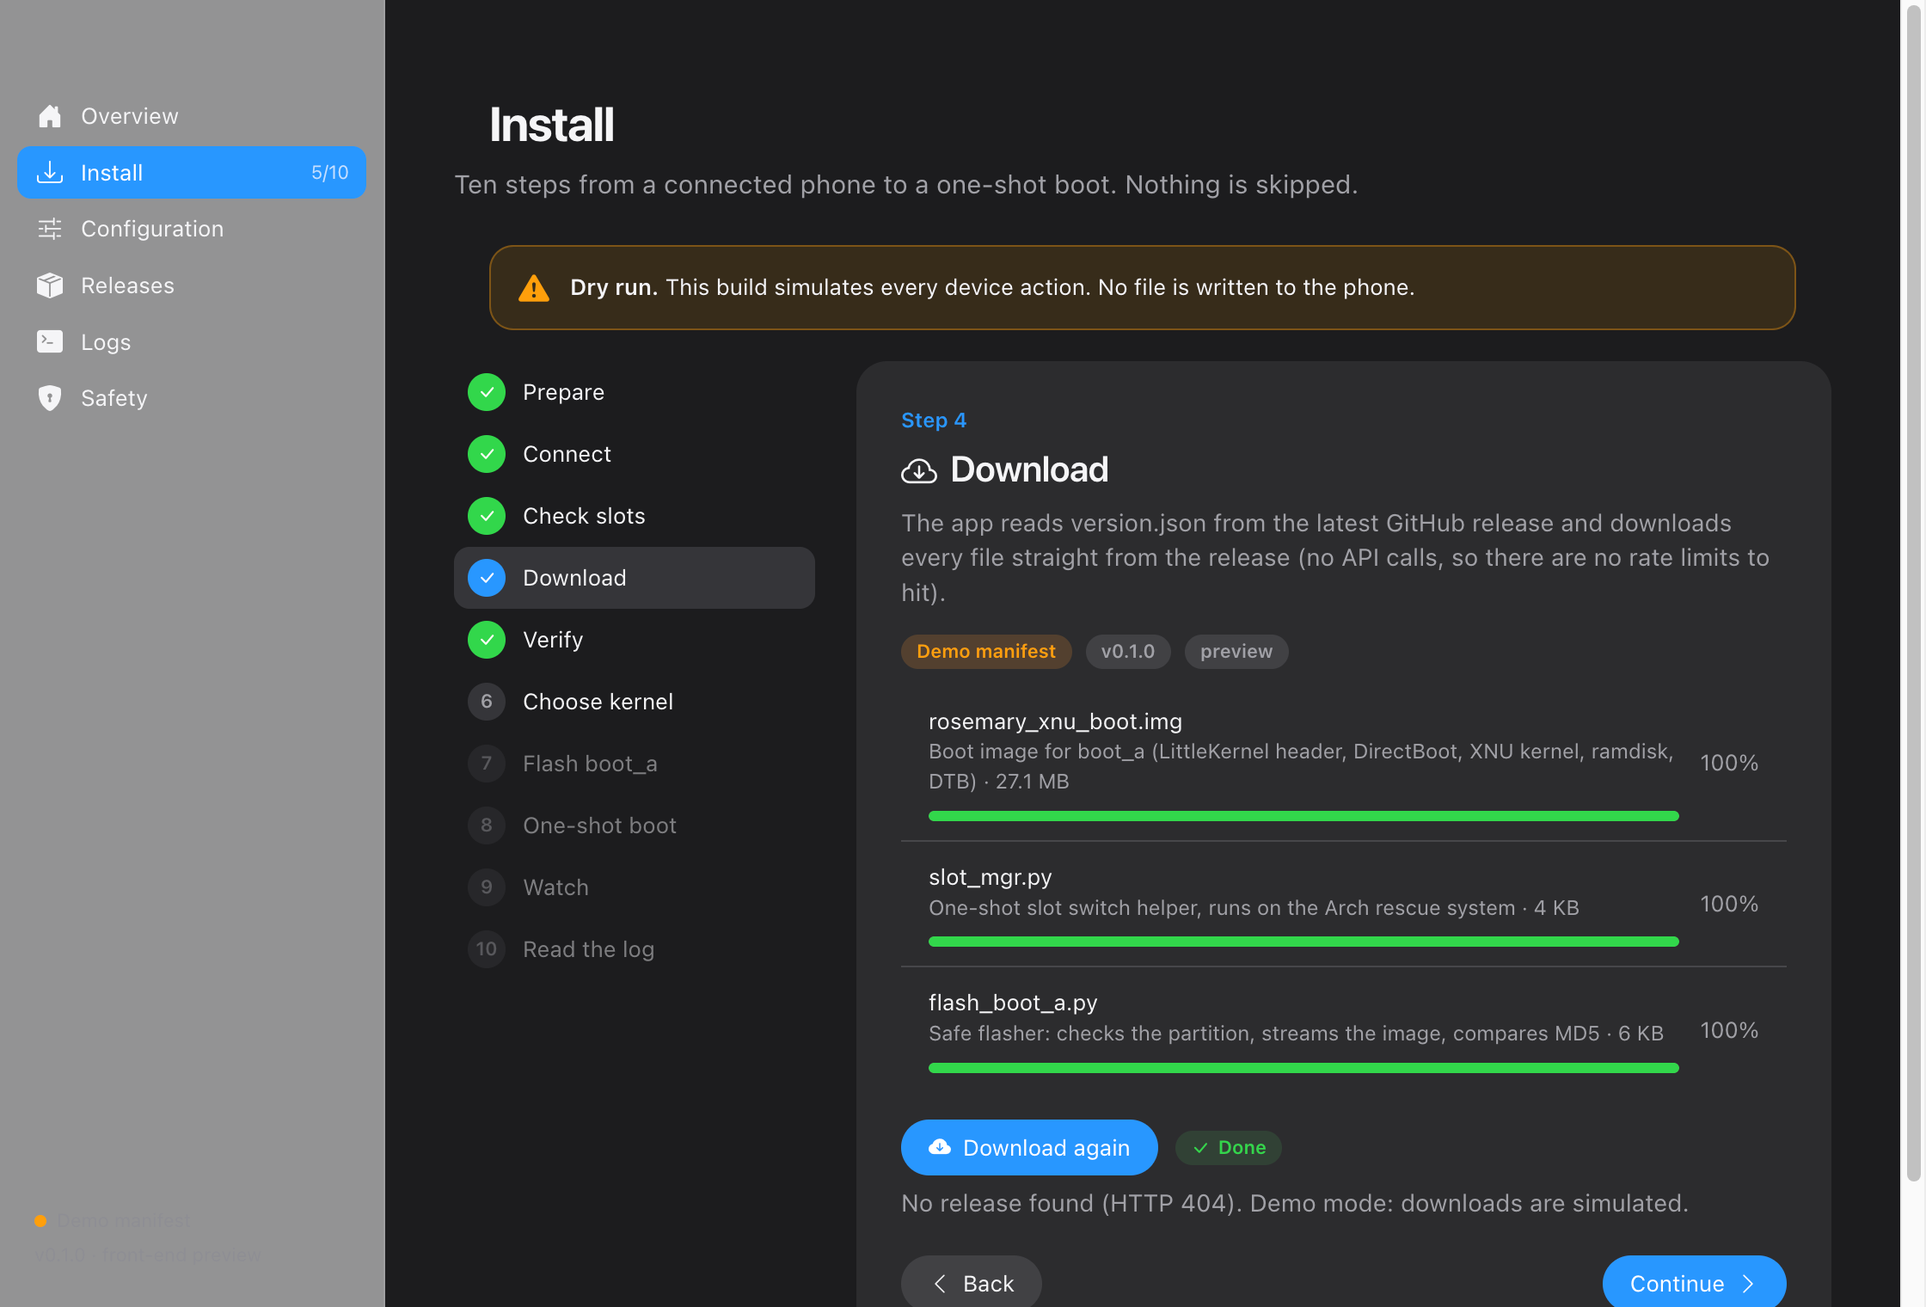
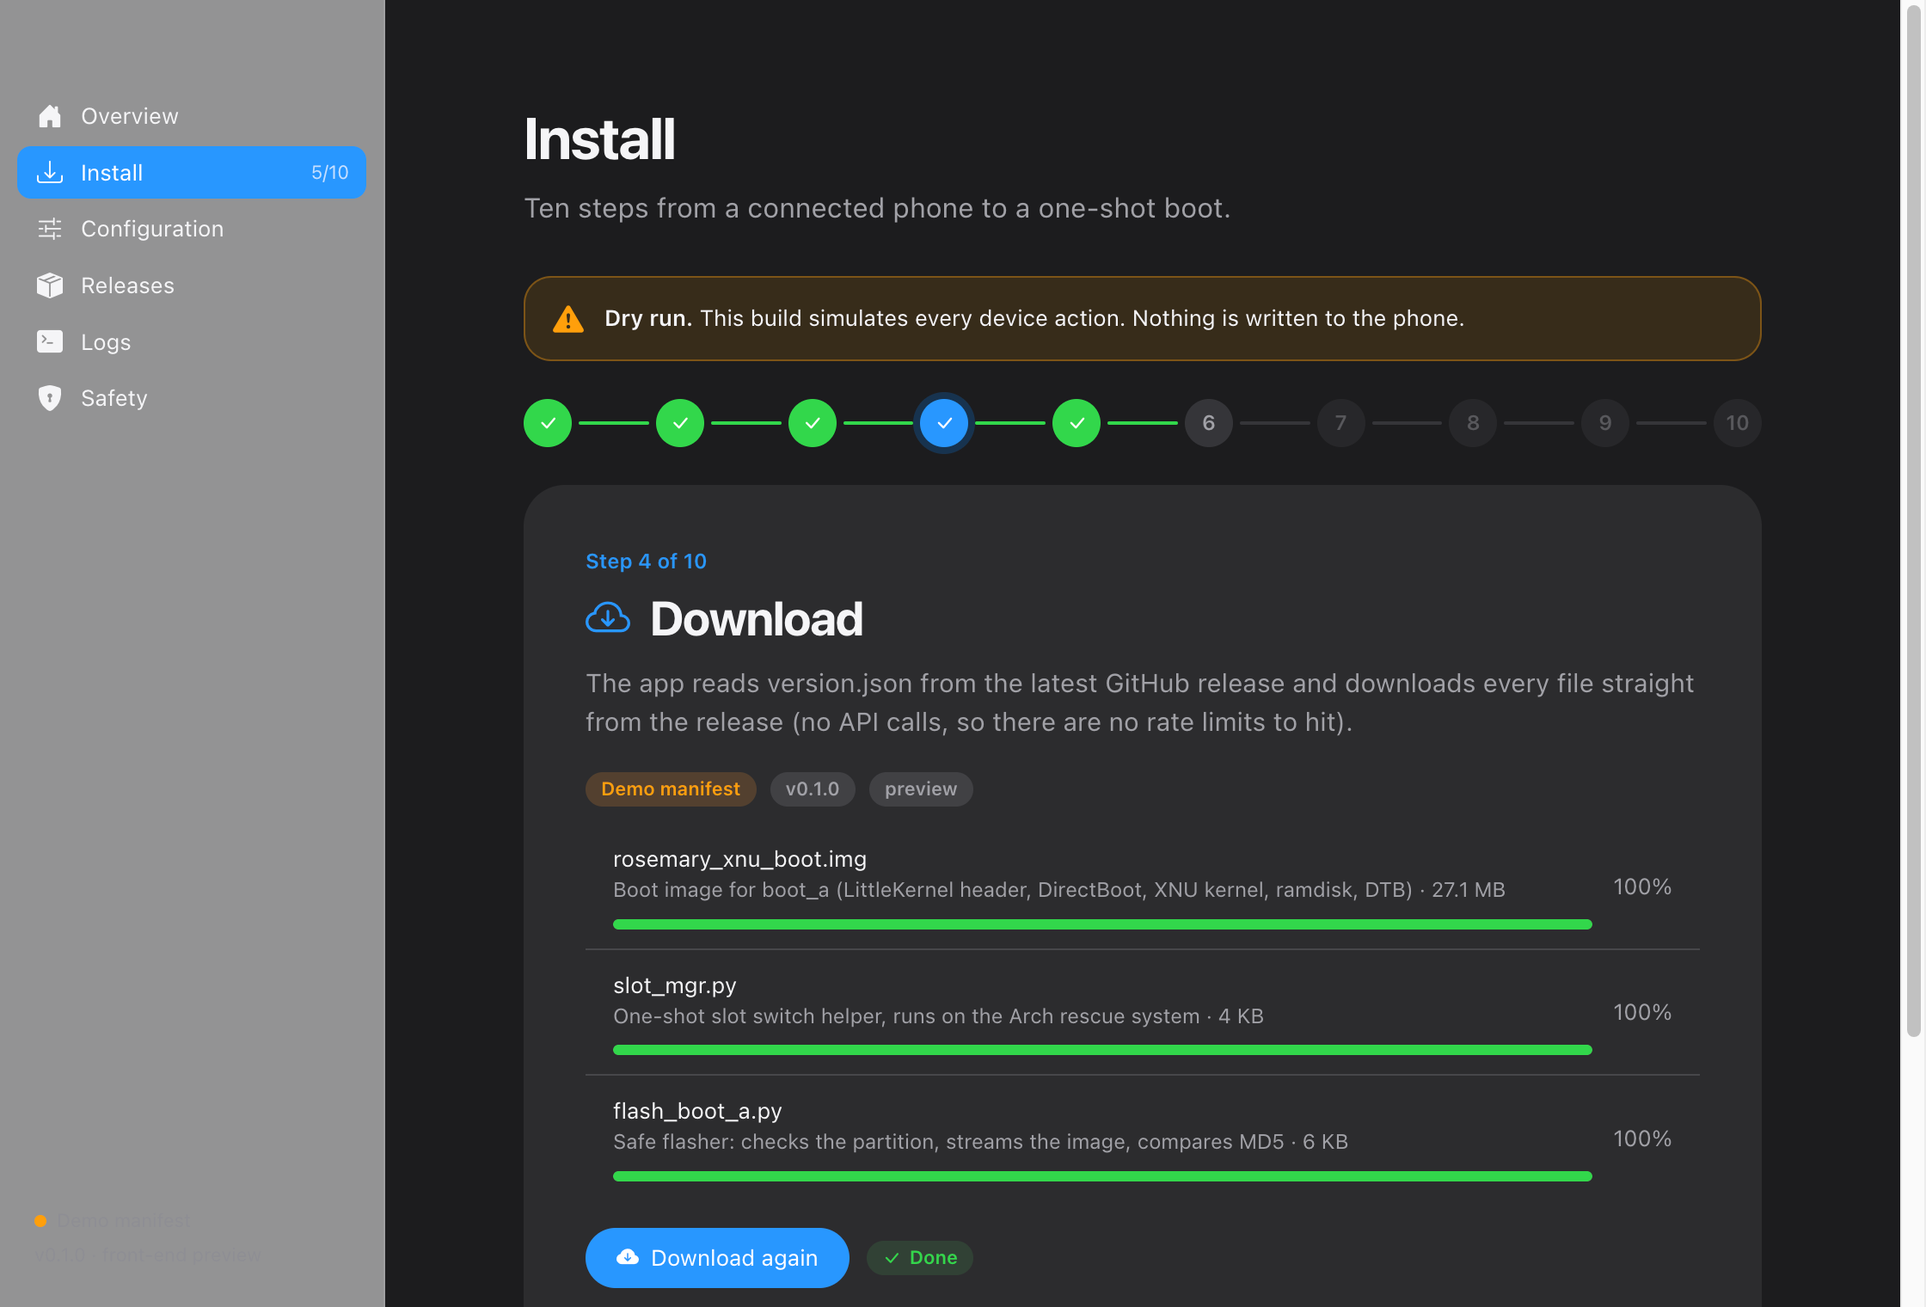
Rework the install screen: stepper, responsive layout, collapsible commands
The wizard no longer widens past the page column; commands wrap and live behind
a "Show command" disclosure instead of dark code blocks; slot map, rows and the
sidebar adapt to narrow windows; larger titles and softer cards.

diff --git a/src/renderer/styles.css b/src/renderer/styles.css
@@ -26,7 +26,7 @@
   --orange: #ff9f0a;
   --red: #ff3b30;
   --shadow: 0 1px 2px rgba(0, 0, 0, 0.04), 0 4px 14px rgba(0, 0, 0, 0.05);
-  --radius: 14px;
+  --radius: 16px;
 }
 
 @media (prefers-color-scheme: dark) {
@@ -97,11 +97,11 @@ body:not(.vibrant) .sidebar { background: var(--surface); }
 /* ---- content ---- */
 .content { position: relative; overflow: hidden; background: var(--bg); }
 .titlebar-drag { position: absolute; inset: 0 0 auto 0; height: 44px; -webkit-app-region: drag; z-index: 2; }
-.view { height: 100vh; overflow-y: auto; padding: 52px 40px 48px; outline: none; }
-.view > * { max-width: 760px; margin-left: auto; margin-right: auto; }
+.view { height: 100vh; overflow-y: auto; padding: 56px clamp(20px, 5vw, 56px) 56px; outline: none; }
+.page { max-width: 720px; margin: 0 auto; min-width: 0; }
 
-h1 { font-family: var(--font-display); font-size: 28px; font-weight: 700; letter-spacing: -0.02em; margin: 0 0 4px; }
-.lede { color: var(--text-2); font-size: 15px; margin: 0 0 24px; }
+h1 { font-family: var(--font-display); font-size: 34px; font-weight: 700; letter-spacing: -0.02em; margin: 0 0 4px; }
+.lede { color: var(--text-2); font-size: 16px; margin: 0 0 28px; max-width: 56ch; }
 h2 { font-family: var(--font-display); font-size: 17px; font-weight: 600; margin: 28px 0 10px; letter-spacing: -0.01em; }
 .section-label { font-size: 11px; font-weight: 600; text-transform: uppercase; letter-spacing: 0.04em; color: var(--text-3); margin: 24px 4px 8px; }
 .footnote { color: var(--text-3); font-size: 12px; margin: 8px 4px 0; }
@@ -112,21 +112,23 @@ h2 { font-family: var(--font-display); font-size: 17px; font-weight: 600; margin
 .row + .row { border-top: 1px solid var(--line); }
 .row .title { font-weight: 500; }
 .row .sub { color: var(--text-2); font-size: 12px; }
-.row .grow { flex: 1; min-width: 0; }
-.row .value { color: var(--text-2); text-align: right; }
+.row .grow { flex: 1; min-width: 0; overflow-wrap: anywhere; }
+.row .value { color: var(--text-2); text-align: right; max-width: 50%; overflow-wrap: anywhere; }
+.row .badge, .row .btn { flex: none; }
 .icon-tile { width: 30px; height: 30px; border-radius: 8px; display: inline-grid; place-items: center; color: #fff; font-size: 16px; flex: none; }
 .t-blue { background: #0a84ff; } .t-green { background: #30b350; } .t-orange { background: #ff9f0a; }
 .t-red { background: #ff453a; } .t-gray { background: #8e8e93; } .t-purple { background: #af52de; } .t-teal { background: #30b0c7; }
 
 /* ---- hero ---- */
-.hero { display: flex; align-items: center; gap: 22px; padding: 26px; border-radius: 20px; background: var(--surface); box-shadow: var(--shadow); }
+.hero { display: flex; align-items: center; gap: 24px; padding: 28px; border-radius: 24px; flex-wrap: wrap; background: var(--surface); box-shadow: var(--shadow); }
 .hero-icon { width: 92px; height: 92px; border-radius: 22px; background: linear-gradient(145deg, #5ac8fa, #0a84ff 55%, #5e5ce6); display: grid; place-items: center; color: #fff; font-size: 46px; flex: none; box-shadow: 0 8px 20px rgba(10, 132, 255, 0.35); }
-.hero h1 { font-size: 30px; }
+.hero h1 { font-size: 38px; }
+.hero > div:last-child { flex: 1 1 280px; min-width: 0; }
 .hero p { margin: 4px 0 14px; color: var(--text-2); font-size: 14px; }
 .hero-actions { display: flex; gap: 10px; flex-wrap: wrap; }
 
 /* ---- controls ---- */
-.btn { border: 0; border-radius: 980px; padding: 7px 16px; font-weight: 500; background: var(--blue); color: #fff; cursor: default; display: inline-flex; align-items: center; gap: 7px; }
+.btn { border: 0; border-radius: 980px; padding: 8px 18px; font-weight: 500; background: var(--blue); color: #fff; cursor: default; display: inline-flex; align-items: center; gap: 7px; }
 .btn:hover { background: var(--blue-press); }
 .btn:disabled { opacity: 0.4; pointer-events: none; }
 .btn.secondary { background: var(--fill); color: var(--text); }
@@ -149,7 +151,7 @@ h2 { font-family: var(--font-display); font-size: 17px; font-weight: 600; margin
 .segmented button.on { background: var(--surface); box-shadow: 0 1px 3px rgba(0, 0, 0, 0.18); }
 @media (prefers-color-scheme: dark) { .segmented button.on { background: var(--surface-2); } }
 
-input[type="range"] { accent-color: var(--blue); width: 200px; }
+input[type="range"] { accent-color: var(--blue); width: min(200px, 30vw); }
 .field { background: var(--fill); border: 0; border-radius: 8px; padding: 6px 10px; color: var(--text); font: inherit; -webkit-user-select: text; user-select: text; }
 
 .badge { display: inline-flex; align-items: center; gap: 5px; padding: 2px 9px; border-radius: 980px; font-size: 11px; font-weight: 600; background: var(--fill); color: var(--text-2); }
@@ -169,28 +171,30 @@ input[type="range"] { accent-color: var(--blue); width: 200px; }
 .callout .bi { font-size: 18px; margin-top: 1px; }
 .callout.red .bi { color: var(--red); } .callout .bi { color: var(--orange); } .callout.blue .bi { color: var(--blue); }
 
-.cmd { display: flex; align-items: center; gap: 8px; background: var(--surface-2); border-radius: 9px; padding: 8px 10px 8px 12px; margin-top: 8px; -webkit-user-select: text; user-select: text; }
-@media (prefers-color-scheme: dark) { .cmd { background: #1c1c1e; } }
-.cmd code { flex: 1; overflow-x: auto; white-space: pre; }
-.cmd button { border: 0; background: transparent; color: var(--text-3); cursor: default; padding: 2px 4px; border-radius: 5px; }
-.cmd button:hover { color: var(--text); background: var(--fill); }
+.cmd { display: flex; align-items: flex-start; gap: 8px; background: var(--fill); border-radius: 12px; padding: 10px 10px 10px 14px; margin-top: 8px; -webkit-user-select: text; user-select: text; min-width: 0; }
+.cmd code { flex: 1; min-width: 0; white-space: pre-wrap; overflow-wrap: anywhere; color: var(--text-2); line-height: 1.5; }
+.cmd button { border: 0; background: transparent; color: var(--text-3); cursor: default; padding: 3px 5px; border-radius: 6px; flex: none; }
+.cmd button:hover { color: var(--text); background: var(--line); }
+.disclose { margin-top: 14px; }
+.disclose summary { list-style: none; display: inline-flex; align-items: center; gap: 6px; color: var(--blue); cursor: default; font-weight: 500; }
+.disclose summary::-webkit-details-marker { display: none; }
+.disclose summary .bi { font-size: 11px; transition: transform .15s; }
+.disclose[open] summary .bi { transform: rotate(90deg); }
 
 /* ---- install wizard ---- */
-.wizard { display: grid; grid-template-columns: 210px 1fr; gap: 24px; max-width: 920px !important; }
-.steps { list-style: none; margin: 0; padding: 0; position: sticky; top: 0; align-self: start; }
-.steps li { display: flex; gap: 10px; align-items: flex-start; padding: 7px 8px; border-radius: 9px; cursor: default; }
-.steps li:hover { background: var(--fill); }
-.steps li.current { background: var(--fill); }
-.step-dot { width: 22px; height: 22px; border-radius: 50%; display: grid; place-items: center; font-size: 11px; font-weight: 600; background: var(--fill); color: var(--text-2); flex: none; }
-.steps li.done .step-dot { background: var(--green); color: #fff; }
-.steps li.current .step-dot { background: var(--blue); color: #fff; }
-.steps li .name { font-weight: 500; line-height: 22px; }
-.steps li.locked { opacity: 0.45; }
-.step-card { background: var(--surface); border-radius: 18px; box-shadow: var(--shadow); padding: 26px; }
-.step-card h2 { margin: 0 0 4px; font-size: 21px; }
+.stepper { display: flex; align-items: center; margin: 4px 0 22px; }
+.sdot { width: 28px; height: 28px; border-radius: 50%; border: 0; flex: none; display: grid; place-items: center; font-size: 12px; font-weight: 600; background: var(--fill); color: var(--text-2); cursor: default; padding: 0; }
+.sdot:disabled { opacity: 0.45; }
+.sdot.done { background: var(--green); color: #fff; }
+.sdot.current { background: var(--blue); color: #fff; box-shadow: 0 0 0 4px rgba(10, 132, 255, 0.22); }
+.sline { flex: 1; height: 2px; min-width: 4px; background: var(--fill); margin: 0 4px; border-radius: 1px; }
+.sline.done { background: var(--green); }
+.step-card { background: var(--surface); border-radius: 24px; box-shadow: var(--shadow); padding: clamp(22px, 4vw, 36px); min-width: 0; }
+.step-card h2 { margin: 0 0 6px; font-size: 28px; font-weight: 700; letter-spacing: -0.02em; display: flex; align-items: center; gap: 12px; }
+.step-card h2 .bi { color: var(--blue); font-size: 26px; }
 .step-card .kicker { color: var(--blue); font-weight: 600; font-size: 12px; margin-bottom: 4px; }
-.step-card p { color: var(--text-2); margin: 6px 0 14px; font-size: 14px; }
-.step-actions { display: flex; gap: 10px; margin-top: 20px; align-items: center; }
+.step-card p { color: var(--text-2); margin: 6px 0 18px; font-size: 15px; line-height: 1.5; }
+.step-actions { display: flex; gap: 10px; margin-top: 28px; align-items: center; padding-top: 20px; border-top: 1px solid var(--line); }
 .step-actions .spacer { flex: 1; }
 .checklist { list-style: none; padding: 0; margin: 10px 0 0; }
 .checklist li { display: flex; gap: 10px; padding: 8px 0; align-items: flex-start; }
@@ -203,7 +207,8 @@ input[type="range"] { accent-color: var(--blue); width: 200px; }
 .timeline .t { color: var(--text-3); font-variant-numeric: tabular-nums; font-weight: 600; }
 
 /* ---- tables & logs ---- */
-.table { width: 100%; border-collapse: collapse; }
+.scroll-x { overflow-x: auto; }
+.table { width: 100%; border-collapse: collapse; min-width: 480px; }
 .table th { text-align: left; font-size: 11px; color: var(--text-3); font-weight: 600; text-transform: uppercase; letter-spacing: 0.03em; padding: 9px 16px; }
 .table td { padding: 10px 16px; border-top: 1px solid var(--line); vertical-align: middle; }
 .hash { font-family: var(--font-mono); font-size: 11px; color: var(--text-2); word-break: break-all; -webkit-user-select: text; user-select: text; }
@@ -213,7 +218,7 @@ input[type="range"] { accent-color: var(--blue); width: 200px; }
 pre.json { background: var(--surface); border-radius: var(--radius); padding: 16px; overflow: auto; font-family: var(--font-mono); font-size: 12px; max-height: 60vh; -webkit-user-select: text; user-select: text; margin: 0; }
 
 /* ---- slot map ---- */
-.slotmap { display: grid; grid-template-columns: repeat(3, 1fr); gap: 12px; }
+.slotmap { display: grid; grid-template-columns: repeat(auto-fit, minmax(190px, 1fr)); gap: 12px; }
 .slot { background: var(--surface); border-radius: var(--radius); padding: 16px; box-shadow: var(--shadow); border: 1.5px solid transparent; }
 .slot.target { border-color: var(--blue); }
 .slot.locked { border-color: rgba(255, 59, 48, 0.4); }
@@ -225,8 +230,10 @@ pre.json { background: var(--surface); border-radius: var(--radius); padding: 16
 .toast { background: rgba(40, 40, 42, 0.92); color: #fff; padding: 9px 16px; border-radius: 980px; font-size: 12px; font-weight: 500; backdrop-filter: blur(20px); animation: toast-in .2s ease-out; }
 @keyframes toast-in { from { opacity: 0; transform: translateY(8px); } to { opacity: 1; transform: none; } }
 
-@media (max-width: 1000px) {
-  .wizard { grid-template-columns: 1fr; }
-  .steps { position: static; display: flex; overflow-x: auto; gap: 4px; }
-  .slotmap { grid-template-columns: 1fr; }
+@media (max-width: 760px) {
+  .app { grid-template-columns: 64px 1fr; }
+  .nav-item span, .nav-group, .sidebar-foot { display: none; }
+  .nav-item { justify-content: center; padding: 9px; }
+  .row { flex-wrap: wrap; }
+  .row .value { max-width: 100%; text-align: left; }
 }

diff --git a/src/renderer/app.js b/src/renderer/app.js
@@ -167,33 +167,31 @@
     const s = D.steps[state.step];
     return `
       <h1>Install</h1>
-      <p class="lede">Ten steps from a connected phone to a one-shot boot. Nothing is skipped.</p>
-      <div class="callout" style="margin-bottom:18px">${icon('bi-exclamation-triangle-fill')}<div><b>Dry run.</b> This build simulates every device action. No file is written to the phone.</div></div>
-      <div class="wizard">
-        <ol class="steps">
-          ${D.steps.map((st, i) => `
-            <li class="${i === state.step ? 'current' : ''} ${state.done.has(i) ? 'done' : ''} ${stepUnlocked(i) ? '' : 'locked'}" data-action="step" data-i="${i}">
-              <span class="step-dot">${state.done.has(i) ? icon('bi-check-lg') : i + 1}</span>
-              <span class="name">${st.title}</span>
-            </li>`).join('')}
-        </ol>
-        <div class="step-card">
-          <div class="kicker">${esc(s.kicker)}</div>
-          <h2>${icon(s.icon)}&nbsp; ${esc(s.title)}</h2>
-          <p>${esc(s.text)}</p>
-          ${stepBody(s)}
-          <div class="step-actions">
-            <button class="btn secondary" data-action="prev" ${state.step === 0 ? 'disabled' : ''}>${icon('bi-chevron-left')} Back</button>
-            <span class="spacer"></span>
-            ${state.step === D.steps.length - 1
-              ? `<button class="btn" data-action="finish" ${state.done.has(state.step) ? '' : 'disabled'}>${icon('bi-check2-circle')} Finish</button>`
-              : `<button class="btn" data-action="next" ${state.done.has(state.step) ? '' : 'disabled'}>Continue ${icon('bi-chevron-right')}</button>`}
-          </div>
+      <p class="lede">Ten steps from a connected phone to a one-shot boot.</p>
+      <div class="callout" style="margin-bottom:22px">${icon('bi-exclamation-triangle-fill')}<div><b>Dry run.</b> This build simulates every device action. Nothing is written to the phone.</div></div>
+      <div class="stepper" role="list">
+        ${D.steps.map((st, i) => `
+          <button class="sdot ${i === state.step ? 'current' : ''} ${state.done.has(i) ? 'done' : ''}" role="listitem" data-action="step" data-i="${i}" title="${esc(st.title)}" ${stepUnlocked(i) ? '' : 'disabled'}>${state.done.has(i) ? icon('bi-check-lg') : i + 1}</button>
+          ${i < D.steps.length - 1 ? `<span class="sline ${state.done.has(i) ? 'done' : ''}"></span>` : ''}`).join('')}
+      </div>
+      <div class="step-card">
+        <div class="kicker">Step ${state.step + 1} of ${D.steps.length}</div>
+        <h2>${icon(s.icon)}<span>${esc(s.title)}</span></h2>
+        <p>${esc(s.text)}</p>
+        ${stepBody(s)}
+        <div class="step-actions">
+          <button class="btn secondary" data-action="prev" ${state.step === 0 ? 'disabled' : ''}>${icon('bi-chevron-left')} Back</button>
+          <span class="spacer"></span>
+          ${state.step === D.steps.length - 1
+            ? `<button class="btn" data-action="finish" ${state.done.has(state.step) ? '' : 'disabled'}>${icon('bi-check2-circle')} Finish</button>`
+            : `<button class="btn" data-action="next" ${state.done.has(state.step) ? '' : 'disabled'}>Continue ${icon('bi-chevron-right')}</button>`}
         </div>
-      </div>`;
+      </div>
+    </div>`;
   }
 
-  const cmdBox = (c) => `<div class="cmd"><code>${esc(c)}</code><button data-action="copy" data-text="${esc(c)}" title="Copy">${icon('bi-clipboard')}</button></div>`;
+  const cmdLine = (c) => `<div class="cmd"><code>${esc(c)}</code><button data-action="copy" data-text="${esc(c)}" title="Copy">${icon('bi-clipboard')}</button></div>`;
+  const cmdBox = (c) => `<details class="disclose"><summary>${icon('bi-chevron-right')}<span>Show command</span></summary>${cmdLine(c)}</details>`;
 
   function stepBody(s) {
     switch (s.id) {
@@ -277,7 +275,7 @@
         <div class="grow"><div class="title">${p.title}</div><div class="sub">${p.subtitle}</div></div>
         ${state.profile === p.id ? `<span class="badge blue">${icon('bi-check-lg')} Selected</span>` : ''}
       </div>`).join('')}</div>
-      <div class="section-label">Boot arguments</div>${cmdBox(cmdline())}
+      <div class="section-label">Boot arguments</div>${cmdLine(cmdline())}
       <p class="footnote">Fine-tune them in Configuration. The same boot image is flashed either way.</p>`;
   }
 
@@ -332,7 +330,7 @@
         <div class="row"><div class="grow"><div class="title mono">${a.key}=${a.value}</div><div class="sub">${esc(a.desc)}${a.locked ? ' · required' : ''}</div></div>
           <label class="toggle"><input type="checkbox" data-action="arg" data-key="${a.key}" ${(a.locked || state.args[a.key]) ? 'checked' : ''} ${a.locked ? 'disabled' : ''}><span></span></label></div>`).join('')}</div>
       <div class="section-label">Resulting command line</div>
-      ${cmdBox(cmdline())}
+      ${cmdLine(cmdline())}
       <p class="footnote">The command line is compiled into DirectBoot today. The final flasher will rebuild the image from these choices.</p>`;
   }
 
@@ -351,7 +349,7 @@
       </div>
       ${state.manifestError ? `<p class="footnote">${icon('bi-exclamation-circle')} ${esc(state.manifestError)}</p>` : ''}
       ${m ? `<div class="section-label">Files</div>
-      <div class="group"><table class="table"><thead><tr><th>File</th><th>Size</th><th>SHA-256</th></tr></thead><tbody>
+      <div class="group scroll-x"><table class="table"><thead><tr><th>File</th><th>Size</th><th>SHA-256</th></tr></thead><tbody>
         ${m.assets.map((a) => `<tr><td><b>${esc(a.name)}</b><div class="sub" style="color:var(--text-2)">${esc(a.role || '')}</div></td><td>${bytes(a.size)}</td><td class="hash">${esc(a.sha256)}</td></tr>`).join('')}
       </tbody></table></div>
       ${m.notes ? `<p class="footnote">${esc(m.notes)}</p>` : ''}
@@ -371,7 +369,7 @@
         <button class="btn secondary small" data-action="copylog">${icon('bi-clipboard')} Copy</button>
         <button class="btn secondary small" data-action="clearlog">${icon('bi-trash')} Clear</button></div>
       <div class="section-label">Read the phone log by hand</div>
-      ${cmdBox("python3 phone_sh.py 'mountpoint -q /sys/fs/pstore || mount -t pstore pstore /sys/fs/pstore; cat /sys/fs/pstore/console-ramoops-0' 30")}`;
+      ${cmdLine("python3 phone_sh.py 'mountpoint -q /sys/fs/pstore || mount -t pstore pstore /sys/fs/pstore; cat /sys/fs/pstore/console-ramoops-0' 30")}`;
   }
 
   /* ----- safety ----- */
@@ -405,7 +403,7 @@
     renderNav();
     const view = $('#view');
     const top = view.scrollTop;
-    view.innerHTML = VIEWS[state.view]();
+    view.innerHTML = `<div class="page">${VIEWS[state.view]()}</div>`;
     view.scrollTop = top;
     const box = $('#console');
     if (box) box.scrollTop = box.scrollHeight;

diff --git a/scripts/shots.js b/scripts/shots.js
@@ -35,6 +35,9 @@ module.exports = function shots(getWindow, dir) {
     await click('[data-action=next]'); await shot('06-install-verify');
     await click('[data-action=next]'); await shot('07-install-kernel');
     await click('[data-action=next]'); await click('[data-action=confirm]'); await shot('08-install-flash');
+    await click('.step-card summary'); await shot('08b-install-flash-command');
+    win.setSize(900, 760); await sleep(400); await shot('08c-install-narrow');
+    win.setSize(1120, 760); await sleep(400);
     for (const id of ['config', 'releases', 'logs', 'safety']) {
       await click(`[data-action=nav][data-id=${id}]`);
       await shot(`09-${id}`);
